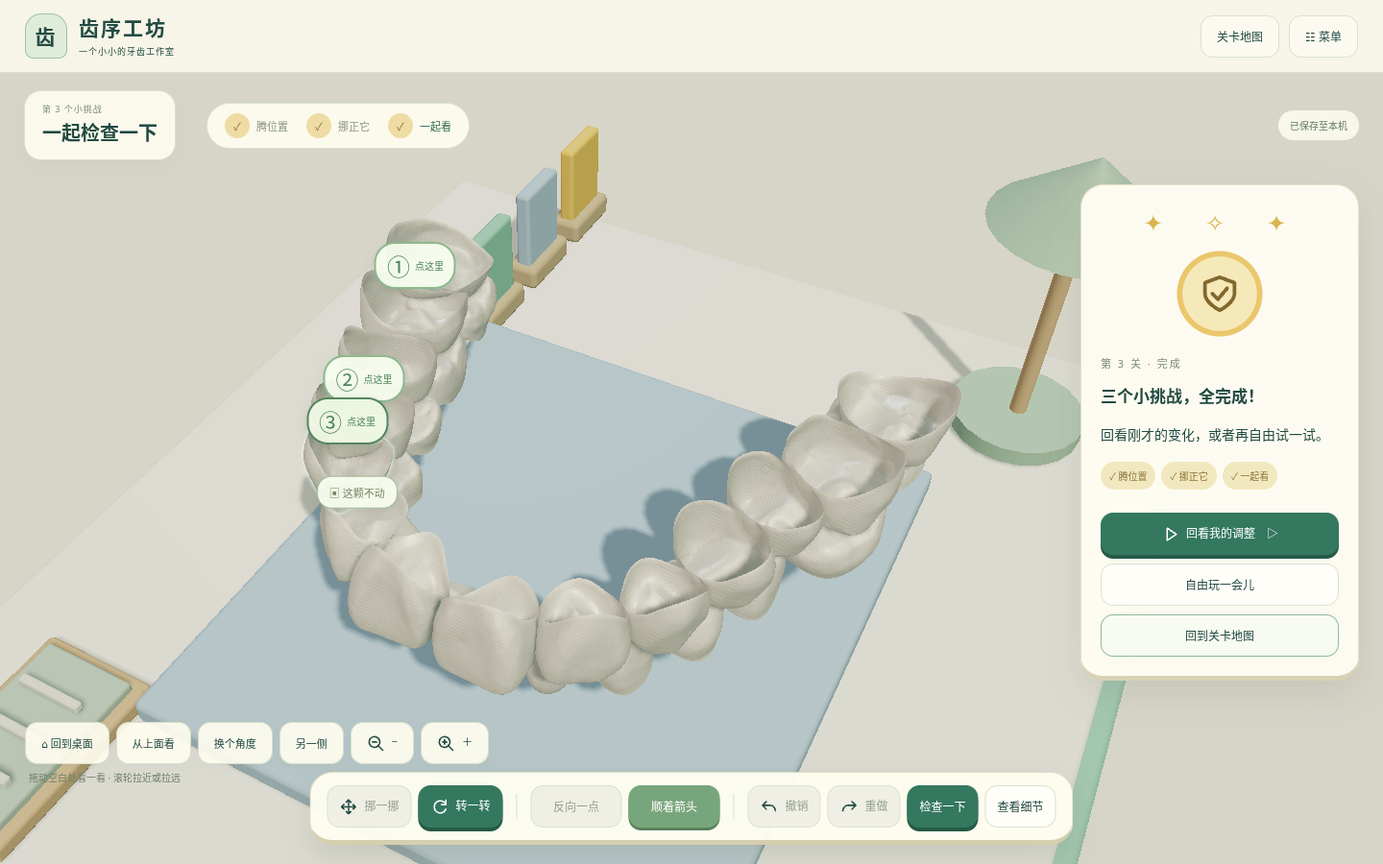
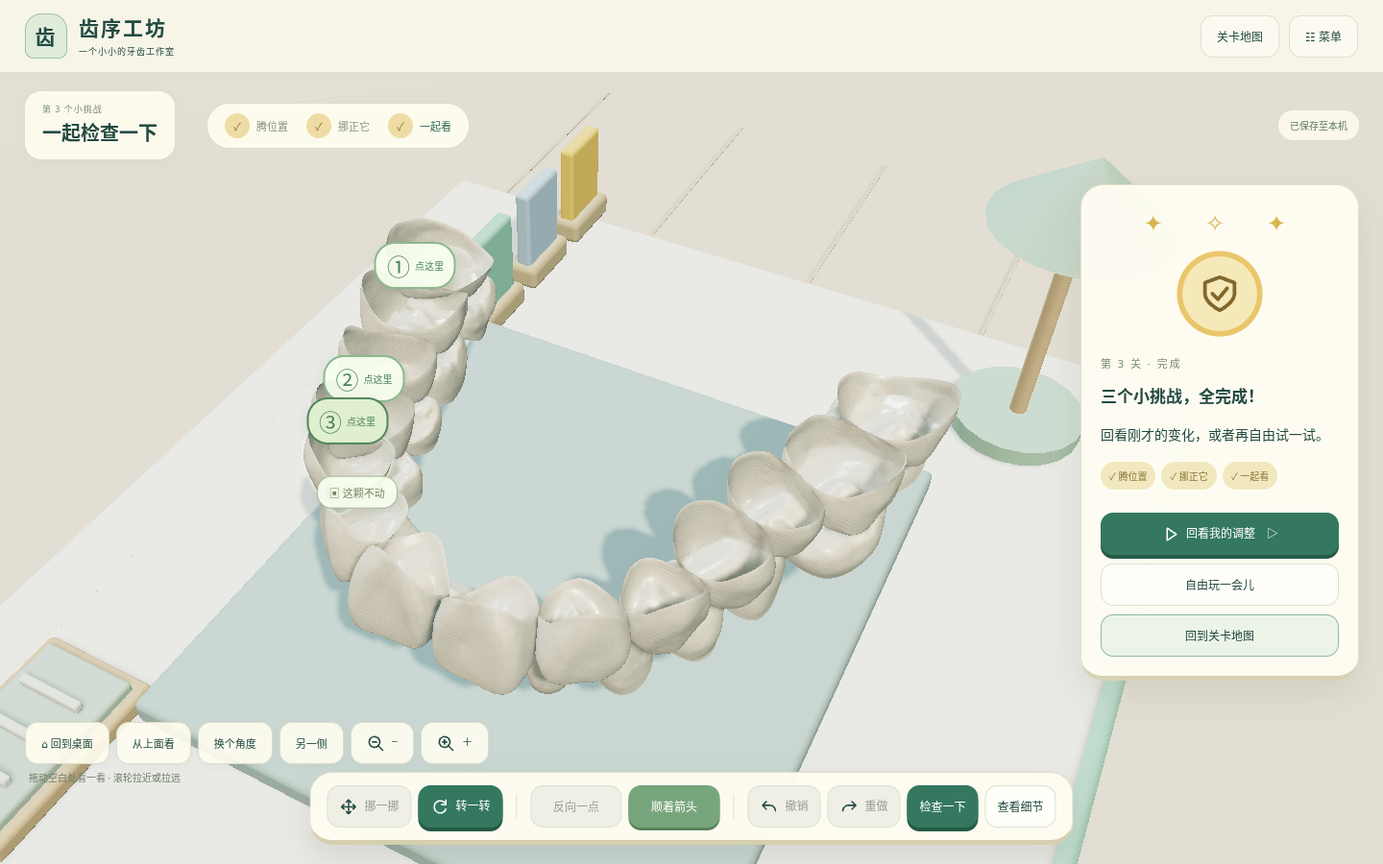
Render real dental studio on title screen and add Windows game launchers

diff --git a/chi-xu-workshop/src/scene.ts b/chi-xu-workshop/src/scene.ts
@@ -13,11 +13,12 @@ export class WorkshopScene{
  taskIds:string[]=[];hoverId:string|undefined;guideGroup=new T.Group();guideArrow=new T.ArrowHelper(new T.Vector3(1,0,0),new T.Vector3(),1,'#54b99a',.2,.1);guideRing=new T.Mesh(new T.TorusGeometry(1,.035,6,64),new T.MeshBasicMaterial({color:'#54b99a',transparent:true,opacity:.85,depthTest:false}));
  teeth=new Map<string,T.Mesh>();ghosts=new Map<string,T.Mesh>();furniture=new T.Group();measurements=new T.Group();gizmo=new T.AxesHelper(1);selected:string|null=null;before:Pose|null=null;dragCancelled=false;size=100;center=new T.Vector3();frame=0;dirty=true;outlineKey="";outlineChanged=0;reduced=false;ro:ResizeObserver;low=false;disposed=false;last=performance.now();fps=0;frames=0;
  onSelect:(id:string)=>void=()=>{};onCommit:(id:string,before:Pose,after:Pose)=>void=()=>{};onPreview:(id:string,pose:Pose)=>void=()=>{};onFailure:(message:string)=>void=()=>{};
- constructor(public host:HTMLElement){
-  this.renderer=new T.WebGLRenderer({antialias:true,alpha:false});this.renderer.setPixelRatio(Math.min(devicePixelRatio,2));this.renderer.setClearColor('#F7F5EC');this.renderer.toneMapping=T.ACESFilmicToneMapping;this.renderer.toneMappingExposure=1;this.renderer.shadowMap.enabled=true;this.renderer.shadowMap.autoUpdate=false;this.renderer.shadowMap.needsUpdate=true;this.renderer.shadowMap.type=T.PCFSoftShadowMap;this.renderer.setSize(host.clientWidth,host.clientHeight);host.append(this.renderer.domElement);
-  this.scene.add(new T.HemisphereLight('#fff8e8','#b4c5b6',1.15));
-  const light=new T.DirectionalLight('#fff4df',2.1);light.position.set(-80,-90,150);light.castShadow=true;light.shadow.mapSize.set(1024,1024);light.shadow.camera.left=-120;light.shadow.camera.right=120;light.shadow.camera.top=120;light.shadow.camera.bottom=-120;light.shadow.camera.far=700;light.shadow.bias=-.0001;this.scene.add(light);
-  const fill=new T.DirectionalLight('#dcecf4',.65);fill.position.set(80,50,60);this.scene.add(fill);
+ constructor(public host:HTMLElement,private offsetForSidebar=true){
+  this.renderer=new T.WebGLRenderer({antialias:true,alpha:false});this.renderer.setPixelRatio(Math.min(devicePixelRatio,2));this.renderer.setClearColor('#F7F5EC');this.renderer.toneMapping=T.ACESFilmicToneMapping;this.renderer.toneMappingExposure=1.08;this.renderer.shadowMap.enabled=true;this.renderer.shadowMap.autoUpdate=false;this.renderer.shadowMap.needsUpdate=true;this.renderer.shadowMap.type=T.PCFSoftShadowMap;this.renderer.setSize(host.clientWidth,host.clientHeight);host.append(this.renderer.domElement);
+  this.scene.add(new T.HemisphereLight('#fff8e8','#91a9ab',1.35));
+  const light=new T.DirectionalLight('#fff4df',2.6);light.position.set(-80,-90,150);light.castShadow=true;light.shadow.mapSize.set(1024,1024);light.shadow.camera.left=-120;light.shadow.camera.right=120;light.shadow.camera.top=120;light.shadow.camera.bottom=-120;light.shadow.camera.far=700;light.shadow.bias=-.0001;this.scene.add(light);
+  const fill=new T.DirectionalLight('#dcecf4',1.1);fill.position.set(80,50,60);this.scene.add(fill);
+  const rim=new T.DirectionalLight('#c5e4ee',1.4);rim.position.set(20,100,90);this.scene.add(rim);
   this.camera.up.set(0,0,1);this.camera.position.set(100,-100,100);
   this.orbit=new OrbitControls(this.camera,this.renderer.domElement);this.orbit.enableDamping=true;this.orbit.addEventListener('change',()=>{this.dirty=true;});this.orbit.minDistance=1;this.orbit.maxDistance=500;
   this.renderer.domElement.addEventListener('pointerdown',e=>{if(e.pointerType==='touch'){this.transform.enabled=false;this.orbit.enabled=false;}},{capture:true});
@@ -37,7 +38,7 @@ export class WorkshopScene{
  }
  pick(e:PointerEvent){const r=this.renderer.domElement.getBoundingClientRect();const ray=new T.Raycaster();ray.setFromCamera(new T.Vector2((e.clientX-r.left)/r.width*2-1,-(e.clientY-r.top)/r.height*2+1),this.camera);const hit=ray.intersectObjects([...this.teeth.values()].filter(m=>m.visible),false)[0];return hit?.object.userData.id as string|undefined;}
  load(data:CaseAssets,poses:Poses){
-  for(const a of data.assets){const mesh=new T.Mesh(a.geometry,new T.MeshStandardMaterial({color:'#f2eee5',metalness:0,roughness:.32,side:T.DoubleSide}));mesh.userData={id:a.id,pivot:a.pivot,desktopGeometry:a.geometry,lowGeometry:a.lowGeometry,asset:a};mesh.castShadow=true;mesh.receiveShadow=true;this.teeth.set(a.id,mesh);this.scene.add(mesh);
+  for(const a of data.assets){const mesh=new T.Mesh(a.geometry,new T.MeshPhysicalMaterial({color:'#f3ead8',metalness:0,roughness:.28,clearcoat:.3,clearcoatRoughness:.24,side:T.DoubleSide}));mesh.userData={id:a.id,pivot:a.pivot,desktopGeometry:a.geometry,lowGeometry:a.lowGeometry,asset:a};mesh.castShadow=true;mesh.receiveShadow=true;this.teeth.set(a.id,mesh);this.scene.add(mesh);
    const ghost=new T.Mesh(a.geometry,new T.MeshBasicMaterial({color:'#ADC9DC',opacity:.18,transparent:true,depthWrite:false,wireframe:true}));ghost.visible=false;this.ghosts.set(a.id,ghost);this.scene.add(ghost);
   }
   this.apply(poses);const box=new T.Box3();this.teeth.forEach(m=>box.expandByObject(m));box.getCenter(this.center);this.size=box.getSize(new T.Vector3()).length();this.camera.near=this.size/2000;this.camera.far=this.size*100;this.camera.updateProjectionMatrix();this.orbit.minDistance=this.size*.25;this.orbit.maxDistance=this.size*5;
@@ -48,9 +49,10 @@ export class WorkshopScene{
   const rounded=(w:number,h:number,t:number,color:string,x:number,y:number,height:number)=>{const m=new T.Mesh(new RoundedBoxGeometry(w,h,t,3,Math.min(w,h,t)*.25),new T.MeshStandardMaterial({color,roughness:.65}));m.position.set(x,y,height);m.receiveShadow=true;m.castShadow=true;this.furniture.add(m);return m;};
   rounded(d*1.65,d*1.35,d*.065,'#90CBB5',c.x,c.y,z-d*.09);
   rounded(d*1.59,d*1.29,d*.05,'#F7F5EC',c.x,c.y,z-d*.045);
-  rounded(d*.82,d*.72,d*.035,'#ADC9DC',c.x,c.y,z);
+  rounded(d*.82,d*.72,d*.035,'#a4bdbb',c.x,c.y,z);
   for(let i=0;i<3;i++){rounded(d*.12,d*.055,d*.04,'#c6b594',c.x+d*(.46+i*.15),c.y+d*.38,z);rounded(d*.1,d*.025,d*.14,['#90CBB5','#ADC9DC','#EAC66B'][i],c.x+d*(.46+i*.15),c.y+d*.38,z+d*.08);}
-  const floor=new T.Mesh(new T.PlaneGeometry(d*20,d*20),new T.MeshStandardMaterial({color:'#ebe8da',roughness:1}));floor.position.set(c.x,c.y,z-d*.14);floor.receiveShadow=true;this.furniture.add(floor);
+  for(let i=0;i<5;i++)rounded(d*2.8,d*.006,d*.002,'#d6c4a8',c.x,c.y+d*(i*.32-.64),z-d*.135);
+  const floor=new T.Mesh(new T.PlaneGeometry(d*20,d*20),new T.MeshStandardMaterial({color:'#dfd1ba',roughness:1}));floor.position.set(c.x,c.y,z-d*.14);floor.receiveShadow=true;this.furniture.add(floor);
   this.gizmo.scale.setScalar(d*.1);this.gizmo.position.set(c.x-d*.6,c.y-d*.45,z);this.gizmo.visible=false;this.furniture.add(this.gizmo);
   const wood='#cfb58f',mint='#a9cbb5';
   // Decorative lamp and tray sit outside the dental work area; they have no click behavior.
@@ -86,7 +88,7 @@ export class WorkshopScene{
  projectPoint(point:Vec3){const p=new T.Vector3(...point).project(this.camera);return{x:(p.x+1)/2*this.host.clientWidth,y:(1-p.y)/2*this.host.clientHeight,visible:p.z>-1&&p.z<1};}
  directionSVG(){const inv=this.camera.quaternion.clone().invert();return `<svg class="direction-widget" viewBox="0 0 100 100" aria-label="模型世界坐标方向">${(['X','Y','Z'] as const).map((axis,i)=>{const v=new T.Vector3().setComponent(i,1).applyQuaternion(inv);const x=45+v.x*28,y=52-v.y*28;return `<line x1="45" y1="52" x2="${x}" y2="${y}" stroke="${['#aa6c5f','#568b72','#628da7'][i]}" stroke-width="2"/><text x="${x+4}" y="${y+3}" fill="#234B43" font-size="12">${axis}</text>`;}).join('')}</svg>`;}
  marker(id:string){const mesh=this.teeth.get(id);if(!mesh||!mesh.visible)return null;const p=mesh.position.clone().project(this.camera);return{x:(p.x+1)/2*this.host.clientWidth,y:(1-p.y)/2*this.host.clientHeight,visible:p.z>-1&&p.z<1};}
- resize(){this.dirty=true;if(this.disposed)return;const w=this.host.clientWidth,h=this.host.clientHeight;if(!w||!h)return;this.camera.aspect=w/h;this.camera.setViewOffset(w,h,w>=1100?130:w>=900?100:0,0,w,h);this.camera.updateProjectionMatrix();this.renderer.setSize(w,h);this.composer.setSize(w,h);}
+ resize(){this.dirty=true;if(this.disposed)return;const w=this.host.clientWidth,h=this.host.clientHeight;if(!w||!h)return;this.camera.aspect=w/h;if(this.offsetForSidebar)this.camera.setViewOffset(w,h,w>=1100?130:w>=900?100:0,0,w,h);else this.camera.clearViewOffset();this.camera.updateProjectionMatrix();this.renderer.setSize(w,h);this.composer.setSize(w,h);}
  animate=()=>{if(this.disposed)return;this.frame=requestAnimationFrame(this.animate);this.orbit.update();const now=performance.now();const key=this.outline.selectedObjects.map(o=>o.uuid).join();if(key!==this.outlineKey){this.dirty=true;this.outlineKey=key;this.outlineChanged=now;}const strength=2.5*(this.reduced?1:Math.min(1,(now-this.outlineChanged)/150));if(this.outline.edgeStrength!==strength)this.dirty=true;this.outline.edgeStrength=strength;const render=this.dirty||(!this.reduced&&now-this.outlineChanged<180);if(render){this.composer.render();this.frames++;this.dirty=false;}const t=performance.now();if(t-this.last>1000){this.fps=this.frames*1000/(t-this.last);this.frames=0;this.last=t;}};
  dispose(){this.disposed=true;cancelAnimationFrame(this.frame);this.ro.disconnect();this.orbit.dispose();this.transform.dispose();this.scene.traverse(o=>{if(o instanceof T.Mesh||o instanceof T.Line){if(![...this.teeth.values(),...this.ghosts.values()].includes(o as T.Mesh))o.geometry.dispose();const mats=Array.isArray(o.material)?o.material:[o.material];mats.forEach(m=>m.dispose());}});this.composer.dispose();this.renderer.dispose();this.renderer.domElement.remove();}
 }

diff --git a/chi-xu-workshop/src/main.ts b/chi-xu-workshop/src/main.ts
@@ -3,12 +3,14 @@ import {chapters,circles,taskName,guidance} from './player';
 import { Quaternion,Vector3 } from 'three';
 import { loadCase,loadBundledCase,loadLowVariants,disposeCase,type CaseAssets } from './assets';
 import { WorkshopScene } from './scene';
+import { mountStudio } from './studio';
 import { copy,defaultLevels,initialPoses,newSession,stageStart,evaluate,canSave,commitStage,validateSession,validatePoses,History,interpolate,unitLabel,poseError,type Manifest,type Session,type Poses,type Pose,type Tool,type Axis,type Check,type Command,type Vec3 } from './core';
 const app=document.querySelector<HTMLDivElement>('#app')!;
 type Screen='home'|'levels'|'play'|'review'|'finish';
 const KEY='chi-xu-workshop:challenge:v1';
 let assets:CaseAssets|null=null,session:Session|null=null,poses:Poses={},start:Poses={},history=new History(),scene:WorkshopScene|null=null;
 let challengeActivated=false,loadingBuiltIn=false;
+let disposeStudio:(()=>void)|null=null;
 let screen:Screen='home',level=1,selected:string|null=null,tool:Tool='translate',axis:Axis='X',hint=0,outline=false,initialOutline=false,practice=false,checks:Check[]=[],intro=0,operationCount=0;
 let returnChallenge:{poses:Poses;start:Poses;level:number;history:History;hint:number;operations:number;checks:Check[]}|null=null;
 let practiceLog:Command[]=[];let fineStep=false;let low=false,reduced=matchMedia('(prefers-reduced-motion: reduce)').matches,showBase=true;
@@ -85,12 +87,14 @@ function measure(){if(!assets||measurePending||replaying)return;
  measureWorker.postMessage({request,poses:copy(poses),pairs:m().adjacency,samples:Object.fromEntries(assets.assets.map(a=>[a.id,a.samples]))});}
 function saveStage(){if(!session)return;scene?.cancelDrag();const goals=evaluate(poses,start,m(),level);if(!canSave(goals,checks,current()))return toast('还有牙齿没调整好，先跟着任务卡继续试试。');if(session.saved_snapshots.length>=level&&!confirm('保存此阶段将清除其后阶段记录。是否继续？'))return;try{const next=commitStage(session,m(),level,poses,checks,operationCount,hint);if(!persistCandidate(next))return;session=next;event('save_stage',String(level));screen='finish';render();}catch(e){toast(String(e));}}
 function render(){
+ disposeStudio?.();disposeStudio=null;
  scene?.dispose();scene=null;replaying=false;measureRequest++;measurePending=false;measureWorker?.terminate();measureWorker=null;
  const playing=['play','review','finish'].includes(screen);document.body.dataset.screen=screen;
  app.innerHTML=`<header class="${playing?'in-game':''}"><button class="brand" data-action="home"><span class="brand-mark">齿</span><span>齿序工坊<small>一个小小的牙齿工作室</small></span></button><nav>${btn(playing?'关卡地图':'三个小挑战','levels')}${!playing?btn('牙模资源','assets'):''}${btn('☷ 菜单','settings')}</nav></header><main id="main"></main><footer>一颗一颗，慢慢调整。<span>自主练习 · 随时可以重来</span></footer><div id="notice" role="status" aria-live="polite"></div><dialog id="modal"></dialog>`;
  const main=$('#main')!;
  if(screen==='home'){
- main.innerHTML=`<section class="home"><div class="home-copy"><div class="eyebrow">欢迎来到你的小工作台</div><h1>挪一挪，转一转。<br><span>让牙齿各就各位。</span></h1><p class="lead">没有倒计时，也不用怕做错。<br>跟着三个小挑战，一步一步试试看。</p><div class="home-card">${hasSave()?btn('继续上次的挑战　▷','continue',true):btn('开始三个小挑战　▷','new',true)}${hasSave()?btn('重新开始','new'):''}${btn('自由玩一会儿','practice')}<small>可以撤销、看提示，也可以重新尝试。</small></div><p class="asset-status">${assets?'牙模准备好了':'牙齿已准备好，点击开始就能玩'}</p></div><figure class="hero"><img src="/design/workbench.png" alt="PDF工作台视觉参考，不是运行中的病例"><figcaption>工作室氛围参考图</figcaption><div class="hero-note"><span>01 → 03</span><strong>同一副牙模<br>三个接着完成的小挑战</strong></div></figure></section>${warning?`<div class="warning">${esc(warning)}${btn('导出旧记录','export-raw')}</div>`:''}<section class="steps">${chapters.map((c,i)=>`<div><span>0${i+1}</span><strong>${c.title}</strong><small>${c.objective}</small></div>`).join('')}</section>`;
+ main.innerHTML=`<section class="home"><div class="home-copy"><div class="eyebrow">欢迎来到你的小工作台</div><h1>挪一挪，转一转。<br><span>让牙齿各就各位。</span></h1><p class="lead">没有倒计时，也不用怕做错。<br>跟着三个小挑战，一步一步试试看。</p><div class="home-card">${hasSave()?btn('继续上次的挑战　▷','continue',true):btn('开始三个小挑战　▷','new',true)}${hasSave()?btn('重新开始','new'):''}${btn('自由玩一会儿','practice')}<small>可以撤销、看提示，也可以重新尝试。</small></div><p class="asset-status">${assets?'牙模准备好了':'点击开始会自动加载内置真实牙模'}</p></div><figure class="hero title-studio"><div id="title-studio" aria-label="可旋转的真实3D牙模"></div><figcaption id="studio-status" role="status">正在准备真实牙模…</figcaption><div class="hero-note"><span>01 → 03</span><strong>同一副牙模<br>三个接着完成的小挑战</strong></div></figure></section>${warning?`<div class="warning">${esc(warning)}${btn('导出旧记录','export-raw')}</div>`:''}<section class="steps">${chapters.map((c,i)=>`<div><span>0${i+1}</span><strong>${c.title}</strong><small>${c.objective}</small></div>`).join('')}</section>`;
+ disposeStudio=mountStudio($('#title-studio')!,$('#studio-status')!,assets);
  }else if(screen==='levels'){
  const count=session?.saved_snapshots.length??0;
  main.innerHTML=`<section class="page-heading"><span class="eyebrow">你的挑战地图</span><h1>在这张桌上，完成三个小挑战。</h1><p>上一关调整好的牙，会原样带到下一关。</p></section><section class="level-grid">${chapters.map((c,i)=>{const locked=i>count;return `<article class="level-card ${locked?'locked':''}"><span class="level-number">0${i+1}</span><span class="pill">${locked?'🔒 还没解锁':i<count?'✓ 已完成':'轮到这里啦'}</span><div class="stage-symbol">${['↔','↻','◇'][i]}</div><h2>${c.title}</h2><p>${c.objective}</p>${btn(locked?'先完成前一个挑战':i<count?'再试一次':'开始这一关',`stage-${i+1}`,!locked,locked)}</article>`;}).join('')}</section><p class="muted">重玩时会保留原记录。只有你确认保存新的结果，才会清除后面的进度。</p>`;

diff --git a/chi-xu-workshop/tests/browser/game.spec.ts b/chi-xu-workshop/tests/browser/game.spec.ts
@@ -17,11 +17,11 @@ async function load(p:Page){await p.goto('/');await click(p,'assets');await p.lo
 async function nudge(p:Page,id:string,tool:string,axis:string,sign:string,count:number){await click(p,'select-'+id);await click(p,'tool-'+tool);for(let i=0;i<count;i++)await click(p,'guide-forward');}
 async function save(p:Page){await click(p,'review');await expect(p.locator('[data-action="save-stage"]')).toBeEnabled();await click(p,'save-stage');await expect(p.locator('#sidebar')).toContainText('完成');}
 test('缺少资源时保持真实空状态；首页与设置在三种分辨率可用',async({page})=>{
- const errors:string[]=[];page.on('pageerror',e=>errors.push(e.message));await page.route('**/cases/initial/manifest.json',r=>r.fulfill({status:404,body:'missing test'}));await page.goto('/');await expect(page.getByText('牙齿已准备好，点击开始就能玩')).toBeVisible();await expect(page.locator('[data-action="continue"]')).toHaveCount(0);await click(page,'new');await expect(page.locator('dialog')).toContainText('28 个 STL');await expect(page.locator('#load-state')).toContainText('内置病例暂不可用');await click(page,'close-modal');
+ const errors:string[]=[];page.on('pageerror',e=>errors.push(e.message));await page.route('**/cases/initial/manifest.json',r=>r.fulfill({status:404,body:'missing test'}));await page.goto('/');await expect(page.getByText('点击开始会自动加载内置真实牙模')).toBeVisible();await expect(page.locator('[data-action="continue"]')).toHaveCount(0);await click(page,'new');await expect(page.locator('dialog')).toContainText('28 个 STL');await expect(page.locator('#load-state')).toContainText('内置病例暂不可用');await click(page,'close-modal');
  for(const [width,height] of [[1440,900],[1366,768],[1024,768]]){await page.setViewportSize({width,height});expect(await page.evaluate(()=>document.documentElement.scrollWidth<=innerWidth)).toBe(true);}
  await page.setViewportSize({width:1440,height:900});await page.screenshot({path:'test-results/home-1440.png',fullPage:true});await click(page,'settings');await page.locator('#reduce-motion').check();await click(page,'close-modal');expect(errors).toEqual([]);
 });
-test('真实导入路径的校验拒绝错误 checksum；不留半载入状态',async({page})=>{await page.goto('/');await click(page,'assets');const data=files();const manifest=JSON.parse(data.at(-1)!.buffer.toString());manifest.teeth[0].checksum='0'.repeat(64);data.at(-1)!.buffer=Buffer.from(JSON.stringify(manifest));await page.locator('#case-files').setInputFiles(data);await expect(page.locator('#load-state')).toContainText('SHA-256');await click(page,'close-modal');await expect(page.getByText('牙齿已准备好，点击开始就能玩')).toBeVisible();});
+test('真实导入路径的校验拒绝错误 checksum；不留半载入状态',async({page})=>{await page.goto('/');await click(page,'assets');const data=files();const manifest=JSON.parse(data.at(-1)!.buffer.toString());manifest.teeth[0].checksum='0'.repeat(64);data.at(-1)!.buffer=Buffer.from(JSON.stringify(manifest));await page.locator('#case-files').setInputFiles(data);await expect(page.locator('#load-state')).toContainText('SHA-256');await click(page,'close-modal');await expect(page.getByText('点击开始会自动加载内置真实牙模')).toBeVisible();});
 test('三关继承、固定、撤销、测量、恢复、自由隔离、回放及前关失效',async({page})=>{test.setTimeout(150000);
  const errors:string[]=[];page.on('pageerror',e=>errors.push(e.message));await load(page);
  await expect(page.locator('#viewport canvas')).toBeVisible();await expect(page.locator('[data-action="tool-rotate"]')).toBeDisabled();await expect(page.locator('[data-action="axis-Y"]')).toHaveCount(0);

diff --git a/chi-xu-workshop/tests/browser/title-studio.spec.ts b/chi-xu-workshop/tests/browser/title-studio.spec.ts
@@ -1,0 +1,36 @@
+import {test,expect} from '@playwright/test';
+
+test('首页直接显示真实3D病例，进入与返回均不覆盖已有存档',async({page})=>{
+ const errors:string[]=[];page.on('pageerror',e=>errors.push(e.message));
+ await page.goto('/');
+ await expect(page.locator('#title-studio')).toHaveAttribute('data-ready','true',{timeout:60000});
+ await expect(page.locator('#title-studio')).toHaveAttribute('data-teeth','28');
+ await expect(page.locator('#title-studio canvas')).toBeVisible();
+ await expect(page.locator('.hero img')).toHaveCount(0);
+ await expect(page.locator('#studio-status')).toContainText('真实病例');
+ expect((await page.locator('#studio-status').boundingBox())!.height).toBeLessThan(70);
+ await page.screenshot({path:'docs/screenshots/title-studio-1440.png',fullPage:true});
+ await page.locator('[data-action="new"]').click();
+ await expect(page.locator('.coach')).toBeVisible({timeout:60000});
+ await page.locator('[data-action="intro-skip"]').click();
+ await page.locator('[data-action="guide-forward"]').last().click();
+ const key='chi-xu-workshop:challenge:v1';
+ const before=await page.evaluate(k=>localStorage.getItem(k),key);
+ await page.locator('[data-action="home"]').first().click();
+ await expect(page.locator('#title-studio')).toHaveAttribute('data-ready','true');
+ expect(await page.evaluate(k=>localStorage.getItem(k),key)).toBe(before);
+ await page.locator('[data-action="practice"]').click();
+ await expect(page.locator('.practice-picker')).toBeVisible();
+ await page.locator('[data-action="plus"]').click();
+ expect(await page.evaluate(k=>localStorage.getItem(k),key)).toBe(before);
+ await page.screenshot({path:'docs/screenshots/studio-practice-1440.png',fullPage:true});
+ expect(errors).toEqual([]);
+});
+
+test('首页在窄屏上仍可开始并加载实际牙模',async({page})=>{
+ await page.setViewportSize({width:390,height:844});await page.goto('/');
+ await expect(page.locator('#title-studio')).toHaveAttribute('data-ready','true',{timeout:60000});
+ expect(await page.evaluate(()=>document.documentElement.scrollWidth<=innerWidth)).toBe(true);
+ await expect(page.locator('[data-action="new"]')).toBeVisible();
+ await page.screenshot({path:'docs/screenshots/title-studio-mobile.png',fullPage:true});
+});

diff --git a/chi-xu-workshop/src/studio.ts b/chi-xu-workshop/src/studio.ts
@@ -1,0 +1,22 @@
+import { loadBundledCase,disposeCase,type CaseAssets } from './assets';
+import { initialPoses } from './core';
+import { WorkshopScene } from './scene';
+
+// A separate display instance never writes challenge state or changes tooth geometry.
+export function mountStudio(host:HTMLElement,status:HTMLElement,existing:CaseAssets|null){
+ let cancelled=false,scene:WorkshopScene|null=null,owned:CaseAssets|null=null;
+ const show=async()=>{
+  try{
+   const data=existing??await loadBundledCase(text=>{if(!cancelled)status.textContent=text;});
+   if(!existing)owned=data;
+   if(cancelled){if(owned)disposeCase(owned);return;}
+   scene=new WorkshopScene(host,false);
+   scene.load(data,initialPoses(data.manifest,Object.fromEntries(data.assets.map(a=>[a.id,a.pivot]))));
+   scene.onFailure=message=>{status.textContent=message;};
+   host.dataset.ready='true';host.dataset.teeth=String(data.assets.length);
+   status.textContent='真实病例 · 28 颗牙冠 · 拖动旋转，滚轮缩放';
+  }catch(error){if(!cancelled)status.textContent=`牙模暂时无法显示：${String(error)}。可点击开始重试加载。`;}
+ };
+ void show();
+ return()=>{cancelled=true;scene?.dispose();if(owned)disposeCase(owned);};
+}

diff --git a/chi-xu-workshop/src/style.css b/chi-xu-workshop/src/style.css
@@ -8,3 +8,11 @@ body[data-screen=play],body[data-screen=review],body[data-screen=finish]{overflo
 /* Preserve the marker anchor while pressed; a generic button transform would move it away from the pointer. */
 .task-marker:active:enabled{transform:translate(-50%,-145%) translateY(1px)}
 .intro button{min-height:44px}
+
+/* The title uses the same real assets and rendered workshop as gameplay. */
+.title-studio{position:relative;overflow:hidden;background:#e5e9df;min-height:430px}
+#title-studio{position:absolute;inset:0;touch-action:none}
+#title-studio canvas{display:block;width:100%;height:100%}
+.title-studio figcaption{position:absolute;top:auto;left:18px;bottom:16px;right:18px;z-index:1;background:#ffffffe8;border-radius:12px;padding:9px 12px;font-size:12px;color:#34594e;pointer-events:none}
+.title-studio .hero-note{pointer-events:none;top:20px;bottom:auto}
+@media(max-width:700px){.title-studio{min-height:330px}}

diff --git a/chi-xu-workshop/docs/TITLE_STUDIO.md b/chi-xu-workshop/docs/TITLE_STUDIO.md
@@ -1,0 +1,39 @@
+# 真实牙模首页与 Windows 入口
+
+2026-10-19，本工作区开始时仅有 main 对应的 README，工作区干净，旧对话未提交修改没有保留。以远程 `chi-xu-workshop-dev` 的 `a7f3cfc` 为基础重新实施；未修改 main 或工程外文件。
+
+## 实现
+
+- 首页通过 `studio.ts` 直接加载校验过的真实病例，用与游戏相同的 `WorkshopScene` 渲染。可以旋转和缩放，不使用概念图替代运行画面。
+- 首页场景独立管理生命周期，离开后释放渲染器及自有预览资源；不写挑战存档，不复用可编辑挑战位姿。
+- 工作台增加冷色轮廓光和补光，调整主光、自然牙白及透明涂层质感，并调整垫板、桌面与接缝布景。保留原始网格和坐标。
+- 新增开始游戏、更新游戏、创建桌面快捷方式三个 CMD 入口。PowerShell 脚本使用 UTF-8 BOM，支持 Windows PowerShell 5.1 的中文字符串。
+- Node 启动器自动等候 HTTP 就绪后打开浏览器，端口占用时明确失败，不改端口。更新只允许开发分支的干净工作区并执行快进合并、安装和构建，不清理浏览器记录。
+- 真实牙模、派生模型、病例清单、关卡参数、核心规则及进度键和格式均保持原样。原始科研网站未触及。
+
+## 验证
+
+- `npm ci --cache /workspace/.npm-cache` 成功，锁文件未改动。
+- `npm run build` 成功（TypeScript + Vite）。仍有 Three.js 主包超过 500 kB 的提示，不影响构建。
+- `npm test`：3 文件、29 项全部通过，包括原始 STL 哈希与 LOD 顶点来源校验。
+- 浏览器测试共 11 项均有通过记录：完整真实病例三关、LOD、刷新恢复、自由练习隔离、回放；旧 schema1 恢复；存档失败保护；射线拾取和取消拖动；首页真实场景、存档隔离和窄屏布局。
+- 首轮 10/11 通过，一项测试因开发期间热重载回首页而失败。停止修改后相关界面测试通过。
+- 后续 10 项复测中 9 项通过，一项现有射线测试在首次点选时偶发失败；该测试未更改断言，单独 `--repeat-each=2` 复测 2/2 通过。完整真实病例测试已独立通过；没有跳过或禁用用例。
+- 实际截图检查发现首页说明条被旧 CSS 顶部定位拉高，已修正 `top:auto` 并新增高度断言；重跑首页两项测试通过，重新生成并目视检查桌面、窄屏和练习截图。
+- `node --check scripts/launch.mjs` 通过；实际运行启动器后 HTTP 返回游戏页面；重复启动报端口占用并以 1 退出；SIGTERM 可停止本次启动的服务。
+
+截图：
+
+- [真实模型首页](screenshots/title-studio-1440.png)
+- [窄屏首页](screenshots/title-studio-mobile.png)
+- [自由练习](screenshots/studio-practice-1440.png)
+- [第一关](screenshots/player-redesign-stage1.png)
+- [第二关](screenshots/player-redesign-stage2.png)
+- [第三关](screenshots/player-redesign-stage3.png)
+- [完成](screenshots/player-redesign-complete.png)
+
+## 验证边界
+
+Linux + Chromium 软件 WebGL 验证，不代表目标 Windows GPU 的帧率验收。此环境没有 Windows 桌面或 PowerShell，不能宣称 CMD 双击、桌面快捷方式和 Windows 默认浏览器打开已做原生实机测试；这些入口需要在 Windows 安装 Node.js 24 LTS（更新另需 Git for Windows）后做一次实机验收。
+
+浏览器本地存档按地址和浏览器配置隔离。旧记录所在的 `localhost:5173` 与 `127.0.0.1:5173` 不能互相读取；旧玩家应继续使用原地址。更新不删除记录，移动浏览器或电脑前应先导出。未改动病例元数据待审核等原有限制。

diff --git a/chi-xu-workshop/README.md b/chi-xu-workshop/README.md
@@ -10,14 +10,24 @@
 
 ## 启动
 
-Node.js 24 LTS 推荐（运行应用最低 22.12+）。将工程内容解压到 `D:\正畸_严肃游戏` 后，在该目录运行：
+Windows 推荐安装 Node.js 24 LTS。打开工程目录后：
 
-```powershell
+- 双击 `开始游戏.cmd`：首次自动安装依赖，启动后自动打开浏览器。保留终端窗口，关闭窗口即停止服务。
+- 双击 `创建桌面快捷方式.cmd`：在桌面创建游戏和更新入口。移动工程后重新创建快捷方式。
+- 双击 `更新游戏.cmd`：需要 Git for Windows 和 Git 克隆的仓库，只快进更新 `chi-xu-workshop-dev`。有本地修改或分支分叉时停止，不覆盖文件，不切换 main。更新前先关闭游戏窗口。
+
+启动固定使用 `http://127.0.0.1:5173`。进度保存在浏览器里：使用同一浏览器配置及同一地址；曾在 `localhost:5173` 游玩的玩家需继续使用该地址，两个主机名的存档互不共享。更新不会清理浏览器存档；换电脑、浏览器或端口前请先导出记录。端口占用时先关闭旧游戏进程，不自动换端口。ZIP 版可以启动，但自动更新需要 Git 克隆版。
+
+开发环境：
+
+```sh
 npm ci
-npm run dev
+npm run dev -- --host 127.0.0.1 --port 5173 --strictPort
 ```
 
-打开终端显示的本地地址。也可运行 `scripts/start-windows.ps1`。云端工作目录：`/workspace/zhengji/chi-xu-workshop`，依赖安装使用 `npm ci --cache /workspace/.npm-cache`。
+云端工作目录：`/workspace/zhengji/chi-xu-workshop`，依赖安装使用 `npm ci --cache /workspace/.npm-cache`。
+
+首页直接渲染内置真实病例，可拖动旋转和缩放；首页预览不写挑战存档。工作台与首页共用实际 Three.js 场景，不使用概念图作为运行画面。牙模、病例清单、三关参数和进度格式保持原样。
 
 **不需要每次重新导入牙模。** “开始新的挑战”“继续进度”“进入自由练习”会自动校验并加载随工程附带的真实病例。新挑战覆盖旧进度前会明确确认。模型和记录保留在本机，不建立远程遥测。
 
@@ -84,3 +94,5 @@ npm run build
 真实牙位、单位与来源审核，可靠穿透检测，完整 P0 美术细节、目标 GPU 帧率、10Mbps 冷启动和用户教学测试尚未完成。软件 WebGL 运行不等于 45fps 工程验收通过。可选道具/音效未制作，不新增经营、商城、排行榜或真实力学。
 
 [完整设计提取](docs/design-source.txt) · [实施步骤](docs/IMPLEMENTATION.md) · [57 项资源台账](docs/resource-inventory.json)
+
+本次真实模型首页、工作台布景和 Windows 入口的实现与验证详见 [本轮验收记录](docs/TITLE_STUDIO.md)。
